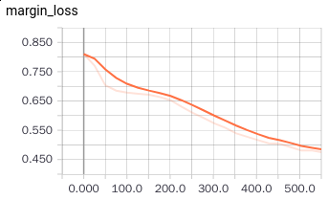
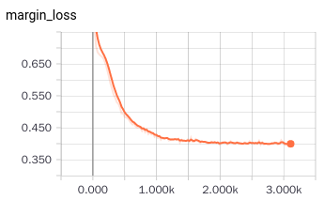
Note the issue #8

diff --git a/README.md b/README.md
@@ -8,7 +8,7 @@ A Tensorflow implementation of CapsNet in Hinton's paper [Dynamic Routing Betwee
 
 - **Note:**
 
-**The code of training phase has been running up in my computer. I'm improving it, cheers!**
+**The routing algorithm has been found not implemented as the same as the one in the paper!(#8, thanks very much, it's my carelessness) Although it works, but not effective as the results of the paper, I've paste out some results of the 'wrong' version(It's really interesting). I'll analyze the reasons of this interesting thing**
 
 [Here](https://zhihu.com/question/67287444/answer/251460831) is my understanding of the section 4 of the paper (the core part of CapsNet), it might be helpful for understanding the code. Thanks for your focus
 
@@ -20,11 +20,12 @@ In the day of waiting, be patient: Merry days will come, believe. ---- Alexander
 WeChat: ![wechat](imgs/wechat_group.png)
 Gitter: [![Gitter](https://img.shields.io/gitter/room/nwjs/nw.js.svg?style=plastic)](https://gitter.im/CapsNet-Tensorflow/Lobby)
 
+We have a lot of interesting discussion in the WeChat group, welcome to join us. We will release the discussion results in the name of this group, pointing out the contribution of any contributors
+
 ## Requirements
 - Python
 - NumPy
 - [Tensorflow](https://github.com/tensorflow/tensorflow) (I'm using 1.3.0, others should work, too)
-- tqdm (for showing training progress info)
 
 ## Usage
 
@@ -49,11 +50,8 @@ $ gunzip data/mnist/*.gz
 **Step 3.** 
 Start training with command line:
 ```
-$ pip install tqdm
 $ python train.py
 ```
-
-the tqdm package is not necessrary, just a tool for showing the training progress. if you don't want it, change the loop ``for step in ...`` to ``for step in range(num_batch)`` in ``train.py``
 
 ### Evaluation
 ```
